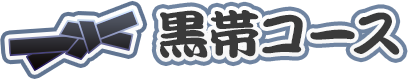
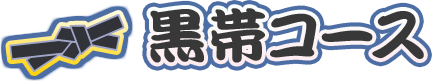
NAM-744 道場：デザインを反映する
・道場トップ画面のデザインを反映

担当：真水

diff --git a/www_dev/app/styles/namie_dojo.css b/www_dev/app/styles/namie_dojo.css
@@ -4,14 +4,12 @@
 .page-dojo {
     background-color: #efeeec;
     background-image: url(../../app/img/dojo/img-bg.png);
-    background-size: contain;
 }
 
 .page-dojo .contents {
     height: auto;
     background-color: #efeeec;
     background-image: url(../../app/img/dojo/img-bg.png);
-    background-size: 100% auto;
     color: rgb(115, 73, 41);
 }
 
@@ -215,15 +213,20 @@
     background-color: white;
     margin-bottom: 10px;
     box-shadow: 0 2px 2px 0 rgba(0, 0, 0, 0.2);
-    padding: 20px 0;
+    padding: 25px 0 23px 255px;
+    background-image: url("../../app/img/dojo/img-list-header-select.png");
+    background-repeat: no-repeat;
+    background-position: 70px center;
+    background-size: auto 47%;
+    font-size: 1.4rem;
 }
 
 .dojo-level-list-container {
-    padding: 20px;
+    padding: 0 130px;
 }
 .dojo-level-list-container .dojo-level-item {
-    padding: 10px;
-    margin-bottom: 15px;
+    padding: 12px;
+    margin-bottom: 12px;
     display: flex;
     align-items: stretch;
 }
@@ -234,6 +237,9 @@
 
 /* 帯 */
 .dojo-level-list-container .dojo-level--introduction {
+    display: block;
+    padding: 0;
+    margin-bottom: 8px;
     background: -webkit-linear-gradient(-90deg, #d0915b 0%, #af7b4c 100%);
     background: -moz-linear-gradient(-90deg, #d0915b 0%, #af7b4c 100%);
     background: -o-linear-gradient(-90deg, #d0915b 0%, #af7b4c 100%);
@@ -242,9 +248,20 @@
     border-bottom: 5px solid #7e4f23;
     color: rgb(115, 73, 41);
 }
+.dojo-level-list-container .dojo-level--introduction .dojo-level-item__inner {
+    padding: 12px;
+    display: flex;
+    align-items: stretch;
+    background-image: url(../../app/img/dojo/text-introduction.png);
+    background-repeat: no-repeat;
+    background-position: 20px bottom;
+    background-size: auto 95%;
+}
 .dojo-level-list-container .dojo-level--introduction .dojo-level-item__header {
 }
 .dojo-level-list-container .dojo-level--introduction .dojo-level-item__description {
+    padding-top: 8px;
+    padding-bottom: 8px;
     background-color: rgb(255, 245, 234);
     border-top: 1px solid #7e4f23;
     border-bottom: 1px solid #d6b86f;
@@ -257,7 +274,6 @@
     background: -ms-linear-gradient(-90deg, #fff6cb 0%, #fec574 100%);
     background: linear-gradient(180deg, #fff6cb 0%, #fec574 100%);
     border-bottom: 5px solid #d59500;
-    color: rgb(115, 73, 41);
 }
 .dojo-level-list-container .dojo-level--none .dojo-level-item__header {
     color: rgb(120, 76, 47);
@@ -267,6 +283,7 @@
     background-color: rgb(255, 252, 234);
     border-top: 1px solid #d59500;
     border-bottom: 1px solid #ffe5bd;
+    color: rgb(120, 78, 60);
 }
 
 .dojo-level-list-container .dojo-level--white {
@@ -276,7 +293,6 @@
     background: -ms-linear-gradient(-90deg, #ffc2c7 0%, #c95b5c 100%);
     background: linear-gradient(180deg, #ffc2c7 0%, #c95b5c 100%);
     border-bottom: 5px solid #9c3e3f;
-    color: rgb(115, 73, 41);
 }
 .dojo-level-list-container .dojo-level--white .dojo-level-item__header {
     color: white;
@@ -286,6 +302,7 @@
     background-color: rgb(255, 249, 251);
     border-top: 1px solid #9c3e3f;
     border-bottom: 1px solid #e79695;
+    color: rgb(111, 43, 44);
 }
 
 .dojo-level-list-container .dojo-level--brown {
@@ -295,7 +312,6 @@
     background: -ms-linear-gradient(-90deg, #74a6e3 0%, #395dbb 100%);
     background: linear-gradient(180deg, #74a6e3 0%, #395dbb 100%);
     border-bottom: 5px solid #182d62;
-    color: rgb(115, 73, 41);
 }
 .dojo-level-list-container .dojo-level--brown .dojo-level-item__header {
     color: white;
@@ -305,6 +321,7 @@
     background-color: rgb(241, 247, 255);
     border-top: 1px solid #182d62;
     border-bottom: 1px solid #5e98e2;
+    color: rgb(29, 46, 89);
 }
 
 .dojo-level-item__icon {
@@ -316,6 +333,10 @@
     background-repeat: no-repeat;
     background-position: center;
     margin-right: 15px;
+}
+
+.dojo-level-item__icon[data-dojo-level=introduction] {
+    height: 50px;
 }
 
 .dojo-level-item__icon[data-dojo-level=none] {
@@ -347,7 +368,7 @@
     font-size: 1.6rem;
     font-weight: bold;
     vertical-align: middle;
-    margin: 10px 15px 10px;
+    margin: 8px 15px 4px;
 }
 
 .dojo-level-item__num {
@@ -358,8 +379,8 @@
 
 .dojo-level-item__description {
     flex: 10000 1 auto;
-    padding: 25px;
-    font-size: 1.3rem;
+    padding: 15px 20px;
+    line-height: 1.6;
 }
 
 /**

diff --git a/www_dev/app/templates/dojo/top/dojoLevelList.html b/www_dev/app/templates/dojo/top/dojoLevelList.html
@@ -4,12 +4,14 @@
     id="dojo-level-introduction"
     class="button dojo-level-title"
 >
-    <div class="dojo-level-item__header">
-        <div class="dojo-level-item__icon" data-dojo-level="white"></div>
-    </div>
-
-    <div class="dojo-level-item__description">
-        テキストが入ります
+    <div class="dojo-level-item__inner">
+        <div class="dojo-level-item__header">
+            <div class="dojo-level-item__icon" data-dojo-level="introduction"></div>
+        </div>
+    
+        <div class="dojo-level-item__description">
+            テキストが入ります
+        </div>
     </div>
 </a>
 

diff --git a/www_dev/app/templates/dojo/top/dojoEdition.html b/www_dev/app/templates/dojo/top/dojoEdition.html
@@ -27,7 +27,6 @@
 >
     <div class="row">
         <div class="columns">
-            コース選択
             白帯コースから順番に習得していきましょう！
         </div>
     </div>
